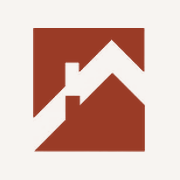
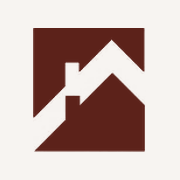
feat: eksik urun fotograflari, hakkimizda duzeni ve marka renginde ikonlar
Urun kartlari: bos duran 5 kart (dokme, demir, kereste, mantolama,
nalbur) fotografa kavustu; beton elemanlari karti kilit tasi fotografina
gecti; yapi kimyasallari yeni fotografi aldi, onceki fotografi da
yalitim kartina tasindi. Hepsi 900x563 webp, kendi alt metniyle.
Yeni dosya adlari kullanildi - .htaccess gorselleri 30 gun onbellege
aldigi icin uzerine yazmak eski fotografi ekranda birakirdi.

Hakkimizda: alti deger karti sag sutuna (eski kirmizi slogan panelinin
yerine) tasindi. Slogan artik zeminsiz ve marka renginde, blogun
altinda ortali duruyor. Beyaz metin PNG'sinin RGB'si marka rengine
sabitlenip alfa kanali korundu.

Ikonlar: favicon, apple-touch ve manifest ikonlari ESKI marka renginde
(#9A3B26) kalmisti; hepsi #5C221A'ya boyandi. Saydam ikonlarda RGB
sabitlenip alfa korundu, krem zeminli apple ikonunda her pikselin
zemin-isaret orani hesaplanip yeni renge tasindi (kenarlar tirtiklanmasin).
Ikon adreslerine ?v=2 damgasi: tarayicilar favicon'u aylarca tutuyor.

diff --git a/index.html b/index.html
@@ -26,8 +26,8 @@
 <!-- X/Twitter, og: etiketlerinin cogunu zaten okur; yalnizca kart tipi
      ayri belirtilmeli, yoksa baglanti kucuk kupurle paylasilir. -->
 <meta name="twitter:card" content="summary_large_image">
-<link rel="icon" href="favicon.ico" sizes="16x16 32x32 48x48">
-<link rel="apple-touch-icon" href="img/apple-touch-icon.png">
+<link rel="icon" href="favicon.ico?v=2" sizes="16x16 32x32 48x48">
+<link rel="apple-touch-icon" href="img/apple-touch-icon.png?v=2">
 <link rel="manifest" href="site.webmanifest">
 
 <script>
@@ -57,7 +57,7 @@
 <!-- ?v= sürüm damgası: tarayıcı ve sunucu CSS/JS'i günlerce
      önbellekte tutuyor. Dosya değiştiğinde bu sayıyı artırın,
      adres değişince eski kopya kullanılamaz. -->
-<link rel="stylesheet" href="assets/style.css?v=8">
+<link rel="stylesheet" href="assets/style.css?v=12">
 <link rel="preload" as="image" href="img/hero-hava.webp" imagesrcset="img/hero-hava-800w.webp 800w, img/hero-hava-1200w.webp 1200w, img/hero-hava-1600w.webp 1600w, img/hero-hava.webp 2000w" imagesizes="100vw">
 
 <script type="application/ld+json">
@@ -183,7 +183,9 @@
           <p>Mensa Yapı Malzemeleri A.Ş. olarak inşaat sektöründe güvenilir bir çözüm ortağı olarak, projelerinizi güçlendirmek ve estetikle buluşturmak için buradayız. 6.500 metrekarelik modern depomuzda, sektörün önde gelen markalarını bir araya getirerek inşaat malzemelerinde geniş bir yelpaze sunuyoruz.</p>
           <p>Müşterilerimizin ihtiyaçlarına zengin ürün ve uygun fiyat seçenekleriyle hızlıca cevap verebilmek, yapı ve inşaat sektörünün ilerlemesine katkıda bulunmak temel misyonumuzdur.</p>
 
-          <div class="values grid-lines cols-2">
+        </div>
+
+        <div class="values grid-lines cols-2">
         <div class="reveal">
           <h3>Müşteri Odaklılık</h3>
           <p>İhtiyaçlara en uygun çözümleri sunmak için dinliyor ve sürekli kendimizi geliştiriyoruz.</p>
@@ -208,14 +210,15 @@
           <h3>Hız</h3>
           <p>Ataşehir'deki depomuzdan aynı gün sevkiyat ve zamanında teslim.</p>
         </div>
-          </div>
         </div>
-
-        <aside class="motto reveal">
-          <img src="img/slogan.png" width="1000" height="402" loading="lazy" decoding="async"
-               alt="Her Yapının Temelinde, Mensa">
-        </aside>
       </div>
+
+      <!-- Slogan: eskiden sağdaki kırmızı panelin içindeydi, artık
+           zeminsiz ve marka renginde, hakkımızda bloğunun altında. -->
+      <p class="slogan reveal">
+        <img src="img/slogan-bordo.png" width="1000" height="402" loading="lazy" decoding="async"
+             alt="Her Yapının Temelinde, Mensa">
+      </p>
 
       <div class="pillars grid-lines cols-3">
         <div class="reveal">
@@ -303,7 +306,7 @@
             <h3><a class="product-link" href="#liste-beton">Beton Elemanları</a></h3>
             <span class="product-no" aria-hidden="true">04</span>
           </div>
-          <div class="product-media"><img src="img/urun/beton.webp" width="900" height="563" loading="lazy" decoding="async" alt="İstiflenmiş beton yağmur oluğu ve bordür elemanları"><span class="product-ustluk" aria-hidden="true"><span>Ürünleri Gör</span></span></div>
+          <div class="product-media"><img src="img/urun/kilittasi.webp" width="900" height="563" loading="lazy" decoding="async" alt="Döşenmiş gri ve antrasit kilit taşı"><span class="product-ustluk" aria-hidden="true"><span>Ürünleri Gör</span></span></div>
           <p>Kilit taşından bordüre, harpuştadan bahçe elemanlarına prefabrik beton ürünler.</p>
           <ul class="tags">
             <li>Kilit Taşı</li>
@@ -333,7 +336,7 @@
             <h3><a class="product-link" href="#liste-dokme">Dökme Malzemeler</a></h3>
             <span class="product-no" aria-hidden="true">06</span>
           </div>
-          <div class="product-media product-media--bos" aria-hidden="true"><span>06</span><span class="product-ustluk" aria-hidden="true"><span>Ürünleri Gör</span></span></div>
+          <div class="product-media"><img src="img/urun/dokme.webp" width="900" height="563" loading="lazy" decoding="async" alt="Damperli kamyondan boşaltılan mıcır yığını"><span class="product-ustluk" aria-hidden="true"><span>Ürünleri Gör</span></span></div>
           <p>Ton ve m³ bazında kum, mıcır, taş tozu ve toprak — şantiyeye doğrudan sevkiyat.</p>
           <ul class="tags">
             <li>Kum</li>
@@ -350,7 +353,7 @@
             <h3><a class="product-link" href="#liste-demir">Demir – Profil Malzemeleri</a></h3>
             <span class="product-no" aria-hidden="true">07</span>
           </div>
-          <div class="product-media product-media--bos" aria-hidden="true"><span>07</span><span class="product-ustluk" aria-hidden="true"><span>Ürünleri Gör</span></span></div>
+          <div class="product-media"><img src="img/urun/demir.webp" width="900" height="563" loading="lazy" decoding="async" alt="İstiflenmiş çelik hasır rulo ve levhaları"><span class="product-ustluk" aria-hidden="true"><span>Ürünleri Gör</span></span></div>
           <p>İnşaat demiri, çelik hasır ve alçıpan profilleri — taşıyıcıdan detaya.</p>
           <ul class="tags">
             <li>İnşaat Demiri</li>
@@ -365,7 +368,7 @@
             <h3><a class="product-link" href="#liste-kereste">Kereste Grubu</a></h3>
             <span class="product-no" aria-hidden="true">08</span>
           </div>
-          <div class="product-media product-media--bos" aria-hidden="true"><span>08</span><span class="product-ustluk" aria-hidden="true"><span>Ürünleri Gör</span></span></div>
+          <div class="product-media"><img src="img/urun/kereste.webp" width="900" height="563" loading="lazy" decoding="async" alt="Kesilmiş ve istiflenmiş kereste"><span class="product-ustluk" aria-hidden="true"><span>Ürünleri Gör</span></span></div>
           <p>Kalıp ve kaba yapı işleri için kalas, tahta, kereste ve ahşap levha.</p>
           <ul class="tags">
             <li>Kalas</li>
@@ -380,7 +383,7 @@
             <h3><a class="product-link" href="#liste-mantolama">Mantolama Malzemeleri</a></h3>
             <span class="product-no" aria-hidden="true">09</span>
           </div>
-          <div class="product-media product-media--bos" aria-hidden="true"><span>09</span><span class="product-ustluk" aria-hidden="true"><span>Ürünleri Gör</span></span></div>
+          <div class="product-media"><img src="img/urun/mantolama.webp" width="900" height="563" loading="lazy" decoding="async" alt="Depoda istiflenmiş mantolama levhaları"><span class="product-ustluk" aria-hidden="true"><span>Ürünleri Gör</span></span></div>
           <p>Dış cephe ısı yalıtım sistemleri — levha, file, dübel ve sistem bileşenleri.</p>
           <ul class="tags">
             <li>EPS ve XPS Strafor</li>
@@ -395,7 +398,7 @@
             <h3><a class="product-link" href="#liste-yalitim">Yalıtım Malzemeleri</a></h3>
             <span class="product-no" aria-hidden="true">10</span>
           </div>
-          <div class="product-media"><img src="img/urun/yalitim.webp" width="900" height="563" loading="lazy" decoding="async" alt="Forkliftle taşınan UKS su yalıtım membranı paleti"><span class="product-ustluk" aria-hidden="true"><span>Ürünleri Gör</span></span></div>
+          <div class="product-media"><img src="img/urun/yalitim-2.webp" width="900" height="563" loading="lazy" decoding="async" alt="Raflarda bidonlanmış yalıtım ürünleri ve membran ruloları"><span class="product-ustluk" aria-hidden="true"><span>Ürünleri Gör</span></span></div>
           <p>Su ve ısı yalıtımı — membran, çimento esaslı sistemler ve çatı ürünleri.</p>
           <ul class="tags">
             <li>Su Yalıtım Membranı</li>
@@ -410,7 +413,7 @@
             <h3><a class="product-link" href="#liste-kimyasal">Yapı Kimyasalları</a></h3>
             <span class="product-no" aria-hidden="true">11</span>
           </div>
-          <div class="product-media"><img src="img/urun/kimyasal.webp" width="900" height="563" loading="lazy" decoding="async" alt="Raflarda bidonlanmış yapı kimyasalları ve membran ruloları"><span class="product-ustluk" aria-hidden="true"><span>Ürünleri Gör</span></span></div>
+          <div class="product-media"><img src="img/urun/kimyasal-2.webp" width="900" height="563" loading="lazy" decoding="async" alt="Tarak mala ile sürülen seramik yapıştırıcı"><span class="product-ustluk" aria-hidden="true"><span>Ürünleri Gör</span></span></div>
           <p>Yapıştırıcı, tamir harcı, grout ve astarlar — Tekno, Weber, Baumit, Yurtbay.</p>
           <ul class="tags">
             <li>Yapıştırıcı</li>
@@ -425,7 +428,7 @@
             <h3><a class="product-link" href="#liste-nalbur">Nalbur – Hırdavat Grubu</a></h3>
             <span class="product-no" aria-hidden="true">12</span>
           </div>
-          <div class="product-media product-media--bos" aria-hidden="true"><span>12</span><span class="product-ustluk" aria-hidden="true"><span>Ürünleri Gör</span></span></div>
+          <div class="product-media"><img src="img/urun/nalbur.webp" width="900" height="563" loading="lazy" decoding="async" alt="Çekiç, pense, anahtar ve el aletleri"><span class="product-ustluk" aria-hidden="true"><span>Ürünleri Gör</span></span></div>
           <p>El aletinden iş güvenliğine, çividen boyaya günlük şantiye ihtiyacı.</p>
           <ul class="tags">
             <li>El Aletleri</li>
@@ -1385,6 +1388,6 @@
   <svg viewBox="0 0 24 24" width="30" height="30" fill="currentColor" aria-hidden="true"><path d="M17.472 14.382c-.297-.149-1.758-.867-2.03-.967-.273-.099-.471-.148-.67.15-.197.297-.767.966-.94 1.164-.173.199-.347.223-.644.075-.297-.149-1.255-.463-2.39-1.475-.883-.788-1.48-1.761-1.653-2.059-.173-.297-.018-.458.13-.606.134-.133.298-.347.446-.52.149-.174.198-.298.298-.497.099-.198.05-.371-.025-.52-.075-.149-.669-1.612-.916-2.207-.242-.579-.487-.5-.669-.51a12.8 12.8 0 0 0-.57-.01c-.198 0-.52.074-.792.372-.272.297-1.04 1.016-1.04 2.479 0 1.462 1.065 2.875 1.213 3.074.149.198 2.096 3.2 5.077 4.487.709.306 1.262.489 1.694.625.712.227 1.36.195 1.872.118.571-.085 1.758-.719 2.006-1.413.248-.694.248-1.289.173-1.413-.074-.124-.272-.198-.57-.347m-5.421 7.403h-.004a9.87 9.87 0 0 1-5.031-1.378l-.361-.214-3.741.982.998-3.648-.235-.374a9.86 9.86 0 0 1-1.51-5.26c.001-5.45 4.436-9.884 9.888-9.884 2.64 0 5.122 1.03 6.988 2.898a9.825 9.825 0 0 1 2.893 6.994c-.003 5.45-4.437 9.884-9.885 9.884m8.413-18.297A11.815 11.815 0 0 0 12.05 0C5.495 0 .16 5.335.157 11.892c0 2.096.547 4.142 1.588 5.945L.057 24l6.305-1.654a11.882 11.882 0 0 0 5.683 1.448h.005c6.554 0 11.89-5.335 11.893-11.893a11.821 11.821 0 0 0-3.48-8.413Z"/></svg>
 </a>
 
-<script src="assets/app.js?v=8" defer></script>
+<script src="assets/app.js?v=12" defer></script>
 </body>
 </html>

diff --git a/assets/style.css b/assets/style.css
@@ -465,32 +465,27 @@ img { display: block; max-width: 100%; height: auto; }
 .about p + p { margin-top: var(--s2); }
 .about > div > p { color: var(--ink-body); font-size: var(--t-body); line-height: 1.65; }
 
-.values { margin-top: var(--s6); }
+/* Değerler artık .about ızgarasının SAĞ sütunu (eskiden sol sütunun
+   altındaydı, sağda kırmızı slogan paneli vardı). Üstten boşluk yok:
+   sol sütundaki başlıkla aynı hizada başlıyor. */
+.values { margin-top: 0; align-self: start; }
 .values > div { padding: var(--s3) var(--s3); }
 .values h3 { font-size: 1.0625rem; margin-bottom: var(--s1); letter-spacing: 0; }
 .values p { font-size: var(--t-sm); line-height: 1.55; color: var(--ink-muted); }
 
 /* Depo gorseli ve yonetim kurulu alintisi kaldirildi; ayni izgara hucresine
    PDF kapagindaki slogan geldi. Kosegen ayrim da kapaktan aliniyor. */
-.motto {
-  align-self: stretch;          /* .about'un align-items:start degerini ezer */
-  display: grid; place-items: center;
-  min-height: 22rem;
-  padding: var(--s7) var(--s4);
-  border-radius: var(--radius);
-  background:
-    linear-gradient(146deg, rgba(255,255,255,0.06) 0 44%, rgba(0,0,0,0.18) 44%),
-    var(--brand);
-  color: #fff;
+/* Slogan. Web fontu DEĞİL, görsel: kurumsal PDF'in kullandığı Libel Suit
+   ticari bir font, web'e gömülmesi ayrı lisans isterdi. Yazı PDF'ten
+   çıkarıldı ve marka rengine boyandı (RGB sabit, alfa kanalı korunarak).
+   Zemin yok - hakkımızda bloğunun altında, ortalanmış duruyor. */
+.slogan {
+  margin: var(--s7) 0 0;
+  text-align: center;
 }
-/* Slogan web fontu degil, GORSEL. Kurumsal PDF'in kullandigi Libel Suit
-   ticari bir font; web'e gomulmesi ayri lisans isterdi. Yazi dogrudan PDF'ten
-   cikarildi: beyaz metin kirmizi zeminden alfa kanalina ayristirildi (gri
-   acilimla zemin kestirildi, kanallar uzerinden kapsama orani hesaplandi),
-   virgulden ikiye bolunup ust uste dizildi. Beyaz oldugu icin dosya gri+alfa
-   (LA) PNG olarak kaydedildi - RGBA'ya gore %22 kucuk. */
-.motto img {
-  width: 100%; max-width: 30rem; height: auto;
+.slogan img {
+  width: 100%; max-width: 34rem; height: auto;
+  display: inline-block;
 }
 
 /* vizyon / misyon / çağrı şeridi */
@@ -1432,10 +1427,9 @@ img { display: block; max-width: 100%; height: auto; }
   .hero-actions { margin-top: var(--s4); }
   .stats { margin-top: var(--s5); padding-top: var(--s3); gap: var(--s3); }
 
-  /* --- slogan paneli: 22rem gorseli tek satirlik yaziya gore olculmustu.
-         Gorselle birlikte panel 352px olup icinde 109px'lik yazi kaliyor,
-         243px bos kirmizi aciliyordu. --- */
-  .motto { min-height: 14rem; padding: var(--s5) var(--s3); }
+  /* --- slogan: dar ekranda üstteki boşluk kısalıyor --- */
+  .slogan { margin-top: var(--s5); }
+  .slogan img { max-width: 20rem; }
 
   /* --- iş ortakları şeridi: dar ekranda hücre biraz daralıyor --- */
   .ref-ray li { width: 214px; height: 100px; }

diff --git a/katalog.html b/katalog.html
@@ -6,8 +6,8 @@
 <title>E-Katalog — Mensa Yapı Malzemeleri A.Ş.</title>
 <meta name="description" content="Mensa Yapı Malzemeleri A.Ş. e-katalog: 12 ürün grubu, 38 marka, 6.500 m² depo.">
 <meta name="theme-color" content="#5C221A">
-<link rel="icon" href="favicon.ico" sizes="16x16 32x32 48x48">
-<link rel="apple-touch-icon" href="img/apple-touch-icon.png">
+<link rel="icon" href="favicon.ico?v=2" sizes="16x16 32x32 48x48">
+<link rel="apple-touch-icon" href="img/apple-touch-icon.png?v=2">
 <link rel="preconnect" href="https://fonts.googleapis.com">
 <link rel="preconnect" href="https://fonts.gstatic.com" crossorigin>
 <link rel="stylesheet" href="https://fonts.googleapis.com/css2?family=Archivo:wght@600;700&amp;display=swap">
